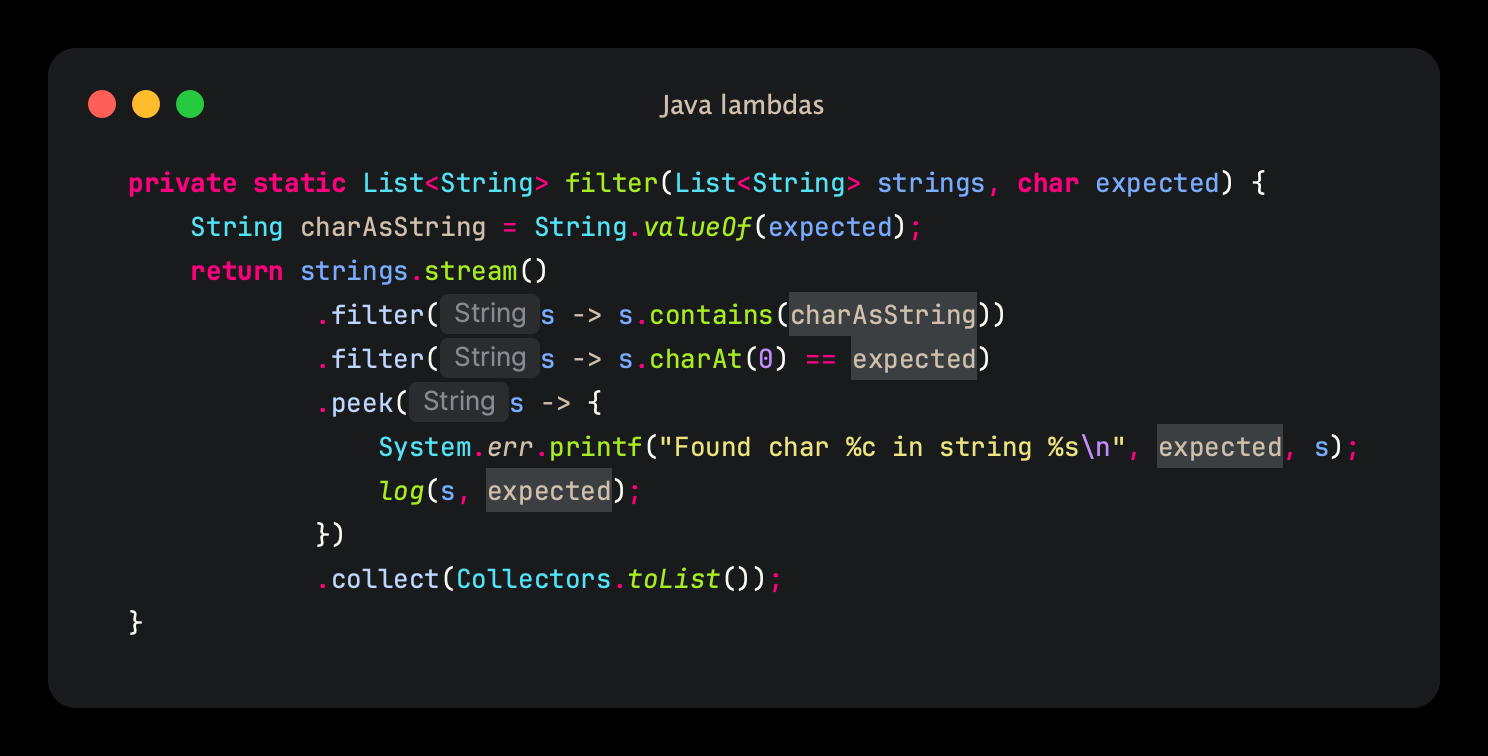
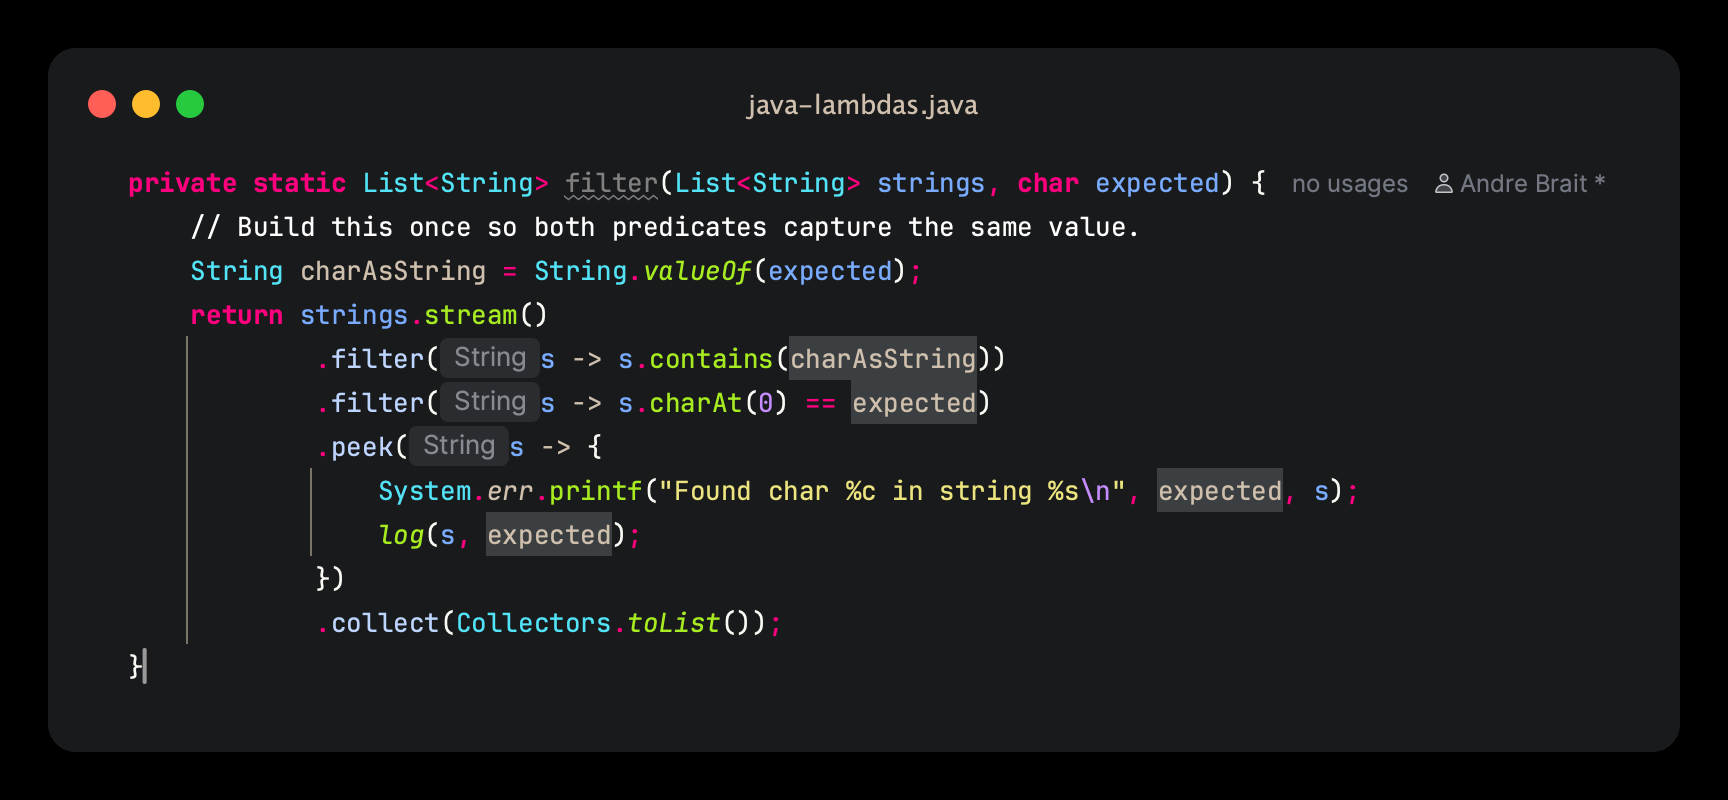
docs: showcase annotations and comments

diff --git a/docs/misc/screenshot-scratches/java.java b/docs/misc/screenshot-scratches/java.java
@@ -1,6 +1,7 @@
 // ## SELECTION STARTS HERE ##
 import java.util.List;
 
+@FunctionalInterface
 interface Matcher {
     boolean matches(String value);
 }
@@ -12,17 +13,22 @@ static final class SearchService {
     private final List<String> values;
 
     SearchService(List<String> values) {
+        // Normalize the source collection at the boundary.
         this.values = List.copyOf(values);
     }
 
-    SearchResult matchesFirst(String prefix) {
+    SearchResult matchesFirst() {
         int remaining = LIMIT;
         remaining--;
 
-        Matcher matcher = value -> value.startsWith(prefix);
+        Matcher matcher = value -> !value.isBlank();
         String candidate = values.getFirst();
         boolean match = candidate != null && matcher.matches(candidate);
         return match ? new SearchResult(candidate, remaining) : null;
     }
 }
 // ## SELECTION ENDS HERE ##
+
+void main(){
+    SearchResult sr = new SearchService(List.of("a")).matchesFirst();
+}

diff --git a/docs/misc/screenshot-scratches/python.py b/docs/misc/screenshot-scratches/python.py
@@ -1,9 +1,13 @@
 # ## SELECTION STARTS HERE ##
+from dataclasses import dataclass
+
+
+@dataclass
 class PathMatcher:
-    def __init__(self, prefix):
+    def __init__(self, prefix: str):
         self.prefix = prefix
 
-    def matches(self, value):
+    def matches(self, value: str) -> bool:
         return value.startswith(self.prefix)
 
 
@@ -14,12 +18,13 @@ class SearchService:
         self.values = values
 
     def find(self, prefix, matcher):
+        # Normalize once before filtering the values.
         normalized = prefix.strip()
         normalized = normalized.lower()
 
         return [
             value
-            for value in self.values[: self.LIMIT]
+            for value in self.values[3:self.LIMIT]
             if value.lower().startswith(normalized) and matcher.matches(value)
         ]
 

diff --git a/docs/misc/screenshot-scratches/java-lambdas.java b/docs/misc/screenshot-scratches/java-lambdas.java
@@ -1,5 +1,6 @@
 // ## SELECTION STARTS HERE ##
 private static List<String> filter(List<String> strings, char expected) {
+    // Build this once so both predicates capture the same value.
     String charAsString = String.valueOf(expected);
     return strings.stream()
             .filter(s -> s.contains(charAsString))
@@ -11,3 +12,11 @@ private static List<String> filter(List<String> strings, char expected) {
             .collect(Collectors.toList());
 }
 // ## SELECTION ENDS HERE ##
+
+private static void log(String s, char expected) {
+    // do nothing
+}
+
+void main() {
+    filter(List.of("alpha"), 'a');
+}
